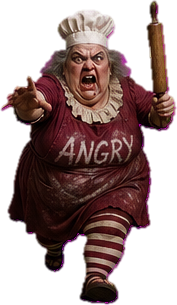
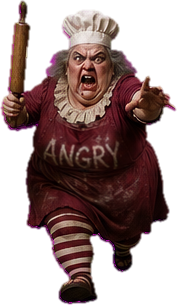
Polish: hand sides/anchor, doors fill frames, flipbook mirror audit
- Hands: the art is a left hand (thumb on the image's right), so the
  unmirrored art now sits at screen-left and the RIGHT hand mirrors
  it — thumbs point inside on both, and item variants ride the right
  hand as before
- Hand rest position sunk (-0.62) and sway amplitude reduced (0.012)
  so at the sway's peak the sprite's flat bottom edge stays >=40px
  below the viewport edge (measured -0.608 vs -0.591 required); no
  scale change
- Door slabs sized to the frame opening exactly (CELL x WALL_H,
  hinge on the exact jamb) — audit script confirms all 10 doors are
  2.0x3.2, centered, and floor-flush; the texture absorbs the small
  aspect stretch
- Verified the chase flipbook applies no mirroring of its own
  (sprite scale positive, both frame textures at repeat.x=1), so the
  fixed chase_b art keeps Betty's pin in one hand

diff --git a/src/hands.js b/src/hands.js
@@ -14,21 +14,28 @@ const POSE = {
   knife: 'hands_knife',
   rolling_pin: 'hands_pin',
 };
-const SHOWN_Y = -0.55, HIDDEN_Y = -0.9;      // slide up from below the view edge
+// SHOWN_Y is low enough that at the sway's highest point the sprite's flat
+// bottom edge stays >=40px below the viewport edge (fov 75, plane at z=-0.7:
+// view bottom is y=-0.537; peak bottom here is -0.62+0.012=-0.608)
+const SHOWN_Y = -0.62, HIDDEN_Y = -0.95;
 const EASE_T = 0.2, SWING_HZ = 1.5, W = 0.2; // fixed hand width; item art extends upward
+const SWAY_AMP = 0.012;
 const smooth = (t) => t * t * (3 - 2 * t);
 
-let mirroredEmpty = null;
-function leftTex() {
-  if (mirroredEmpty) return mirroredEmpty;
-  const base = TEX.hands_empty;
+// the art is a LEFT hand (thumb on the image's right): unmirrored art goes on
+// the screen-left; the right hand mirrors it so both thumbs point inside
+const mirrorCache = new Map();
+function mirroredTex(slot) {
+  if (mirrorCache.has(slot)) return mirrorCache.get(slot);
+  const base = TEX[slot];
   if (!base) return null;
-  mirroredEmpty = base.clone();
-  mirroredEmpty.repeat.x = -1;
-  mirroredEmpty.offset.x = 1;
-  mirroredEmpty.needsUpdate = true;
-  mirroredEmpty.userData = { aspect: base.userData.aspect || 0.93 };
-  return mirroredEmpty;
+  const t = base.clone();
+  t.repeat.x = -1;
+  t.offset.x = 1;
+  t.needsUpdate = true;
+  t.userData = { aspect: base.userData.aspect || 0.93 };
+  mirrorCache.set(slot, t);
+  return t;
 }
 
 export class Hands {
@@ -69,8 +76,11 @@ export class Hands {
   // slot: 'knife' | 'rolling_pin' | 'flashlight' | 'key' | null
   setHeld(slot) {
     this.heldSlot = slot;
-    const okR = this.#apply(this.right, TEX[POSE[slot ?? 'none']] || TEX[POSE.none]);
-    const okL = this.#apply(this.left, leftTex());
+    // item variant rides the RIGHT hand (mirrored left-hand art);
+    // the off-hand is plain hands_empty, unmirrored, at screen-left
+    const pose = POSE[slot ?? 'none'];
+    const okR = this.#apply(this.right, mirroredTex(pose) || mirroredTex(POSE.none));
+    const okL = this.#apply(this.left, TEX[POSE.none]);
     this.noArt = !okR || !okL;
   }
 
@@ -86,8 +96,8 @@ export class Hands {
     const sway = Math.cos(Math.PI * this.phase) * 0.006;
     const lift = (show) => HIDDEN_Y + (SHOWN_Y - HIDDEN_Y) * smooth(show);
 
-    this.left.position.y = lift(this.showL) + swing * 0.018;             // opposite phase
-    this.right.position.y = lift(this.showR) - swing * 0.018;
+    this.left.position.y = lift(this.showL) + swing * SWAY_AMP;          // opposite phase
+    this.right.position.y = lift(this.showR) - swing * SWAY_AMP;
     this.left.position.x = -0.3 + sway;
     this.right.position.x = 0.3 + sway;
     this.left.visible = this.showL > 0.01;

diff --git a/src/map.js b/src/map.js
@@ -333,8 +333,10 @@ export function buildMap(scene) {
   });
   scene.add(walls);
 
-  // door slabs — hinged at one edge of the frame, swinging into the room
-  const doorH = WALL_H - 0.3, doorW = CELL * 0.98;
+  // door slabs — hinged at one edge of the frame, swinging into the room.
+  // Sized to the frame OPENING exactly (a full cell wide, full wall height);
+  // the texture stretches the small aspect difference so no gaps show.
+  const doorH = WALL_H, doorW = CELL;
   for (const d of doors) {
     let mats, geo;
     if (TEX.door) {
@@ -359,12 +361,12 @@ export function buildMap(scene) {
     const { x, z } = cellToWorld(d.c, d.r);
     if (d.vertical) {
       // slab runs N-S; hinge on the north jamb, swing away from any hallway to the east
-      d.pivot.position.set(x, doorH / 2, z - CELL * 0.49);
+      d.pivot.position.set(x, doorH / 2, z - CELL / 2);
       d.baseRot = -Math.PI / 2;
       d.swing = cellChar(d.c + 1, d.r) === 'h' ? -1 : 1;
     } else {
       // slab runs E-W; hinge on the west jamb, swing away from the hallway side
-      d.pivot.position.set(x - CELL * 0.49, doorH / 2, z);
+      d.pivot.position.set(x - CELL / 2, doorH / 2, z);
       d.baseRot = 0;
       d.swing = cellChar(d.c, d.r + 1) === 'h' ? 1 : -1;   // hall south -> swing north
     }
